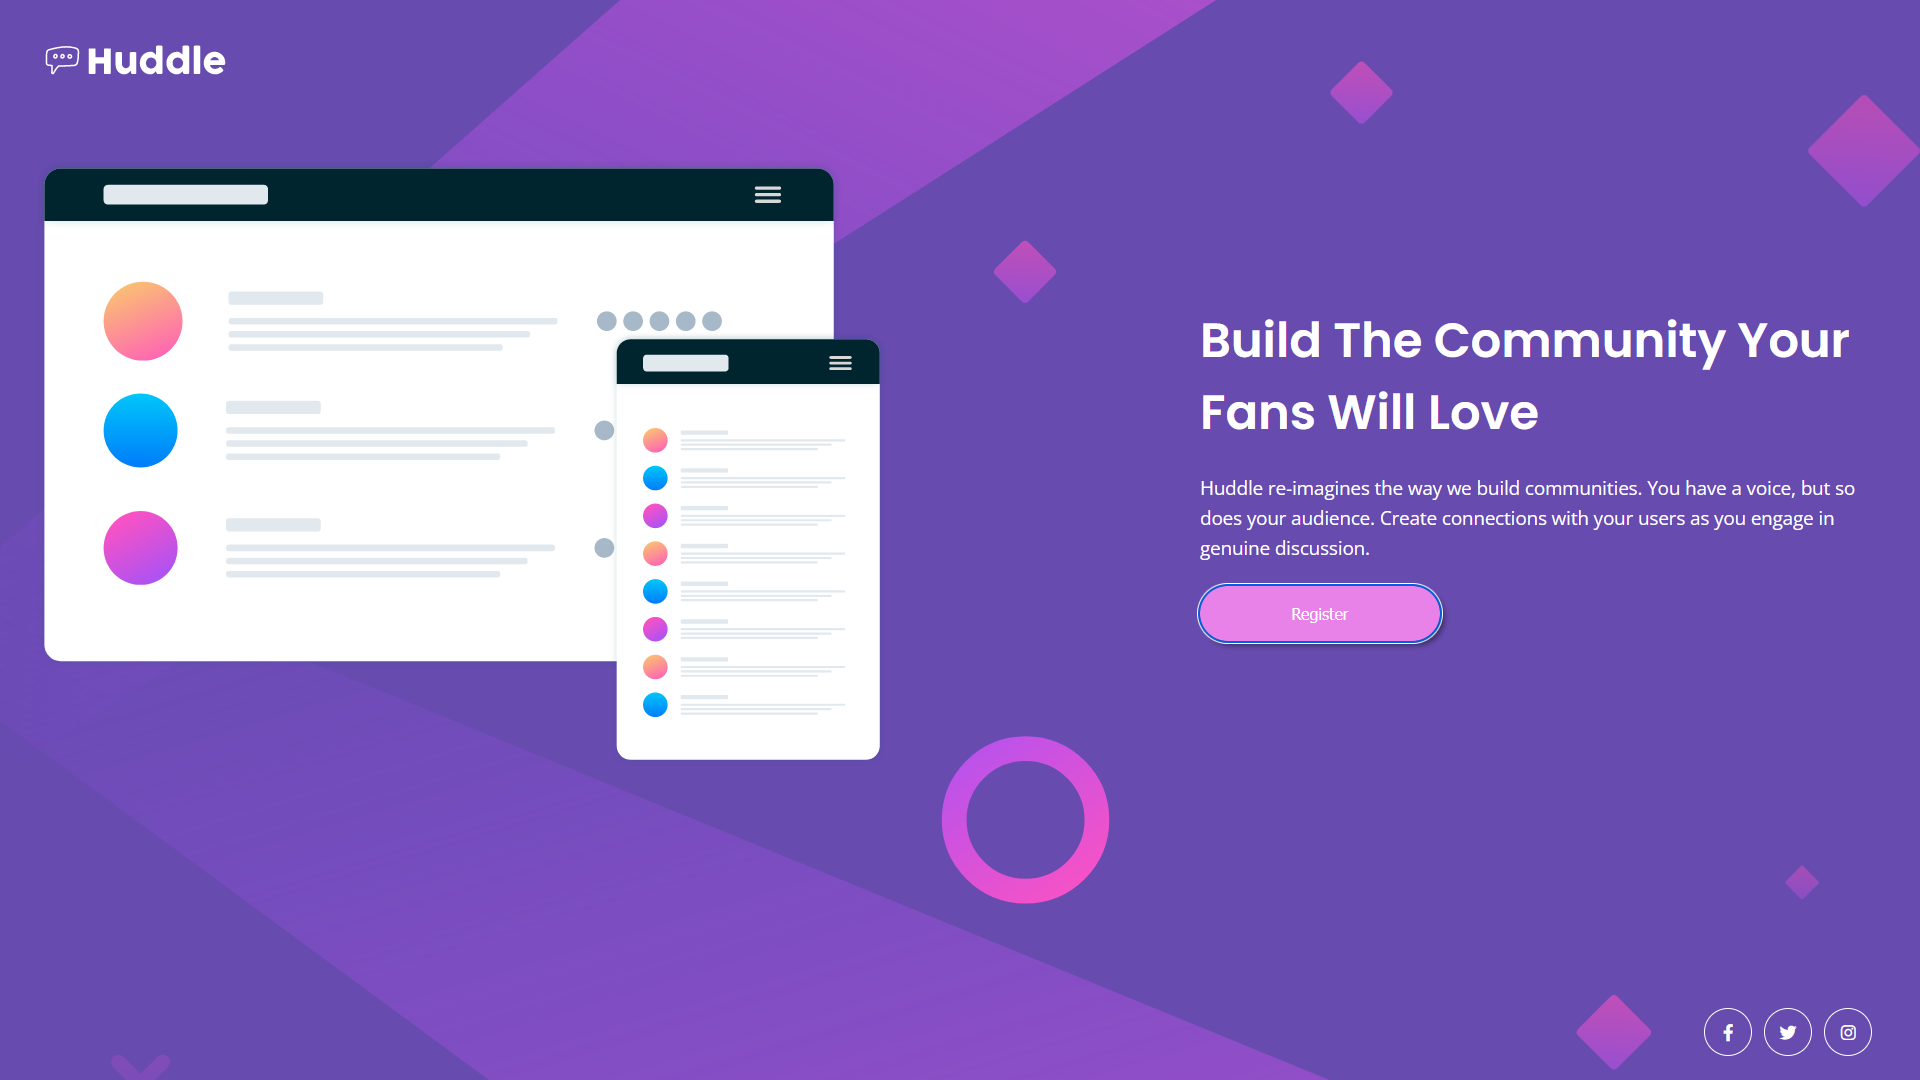
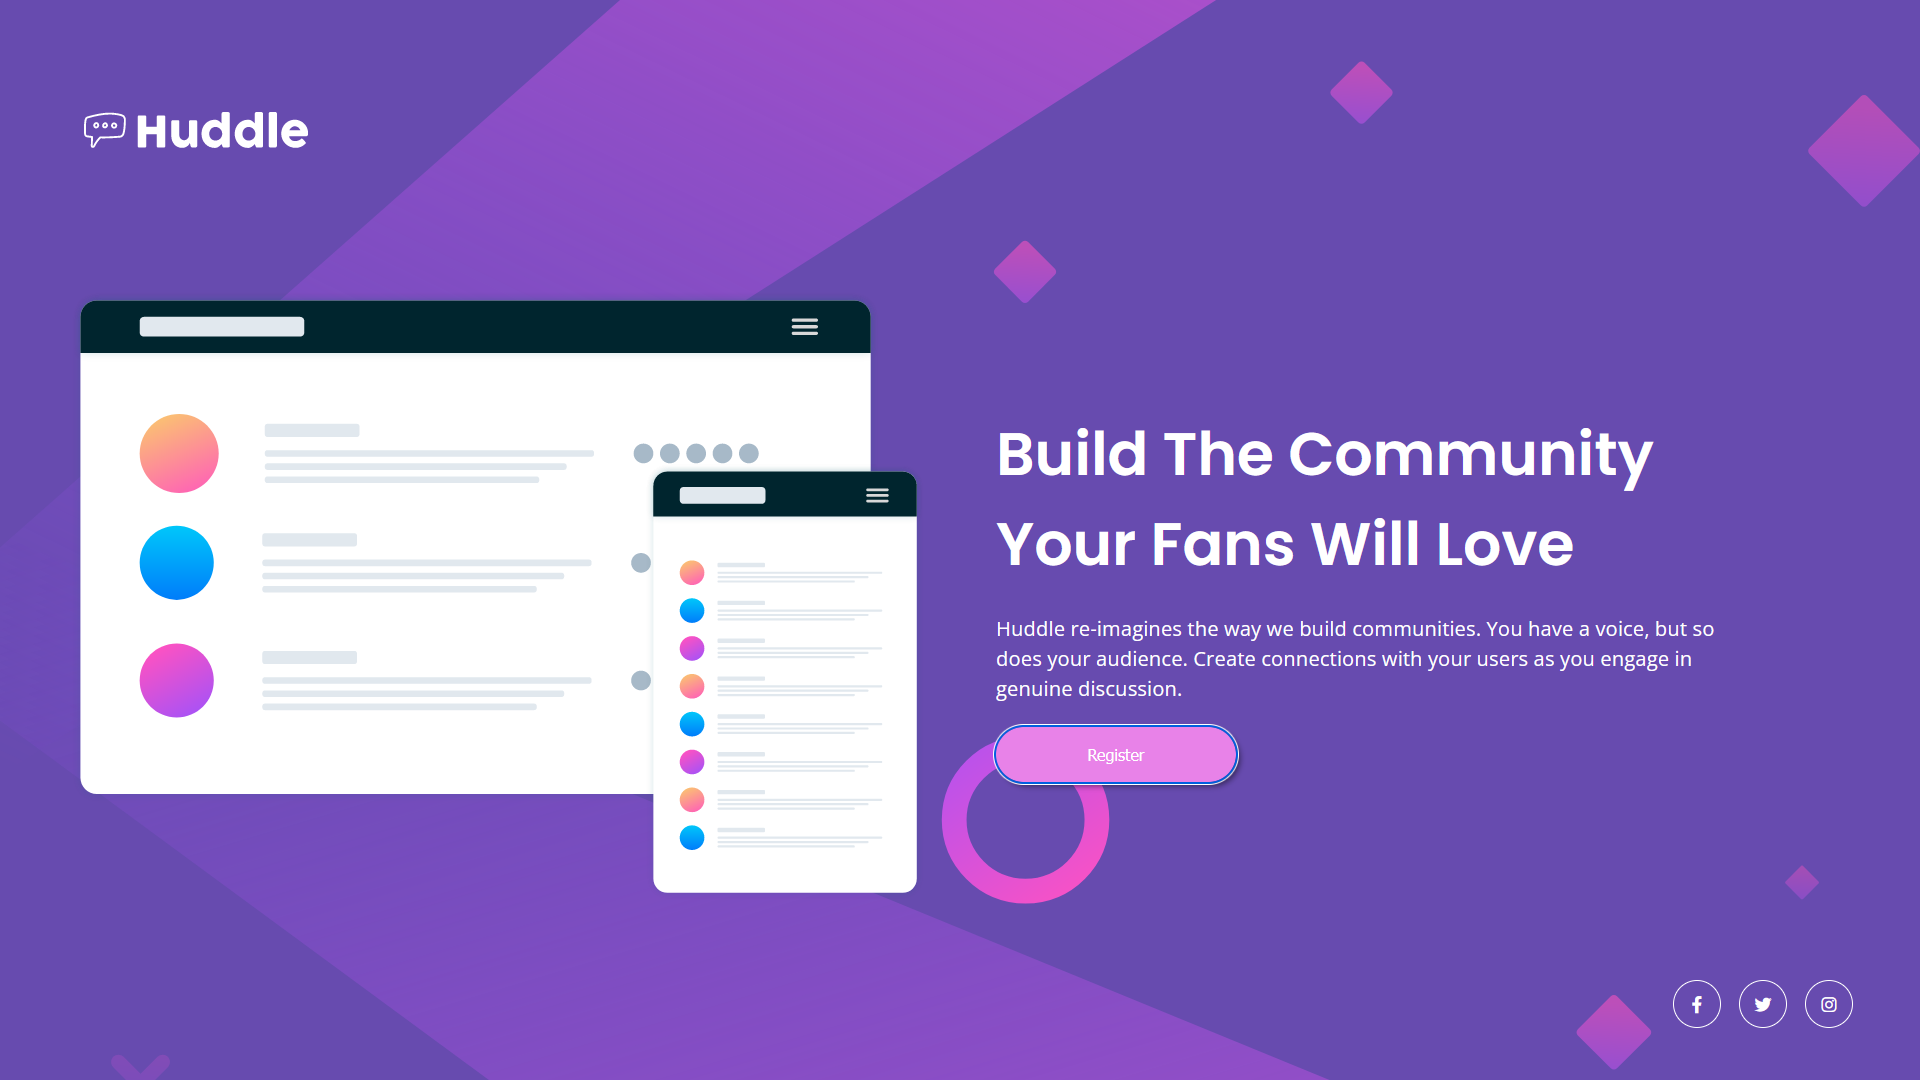
Fix incorrect height of the footer

Changed region(s): [[0.0, 0.0306, 0.9688, 0.825], [0.625, 0.275, 0.9688, 0.3361], [0.875, 0.9167, 0.9688, 0.9778]]

diff --git a/docs/styles/style.css b/docs/styles/style.css
@@ -53,6 +53,7 @@ body {
     background-position: top left;
     background-repeat: no-repeat;
     background-size: cover;
+    justify-content: space-around;
   }
 }
 
@@ -158,8 +159,6 @@ a {
   align-items: center;
   justify-content: flex-end;
   gap: 1.5rem;
-  height: 100%;
-  flex-grow: 1;
   margin-block: 2rem;
   margin-right: 7vw;
 }
